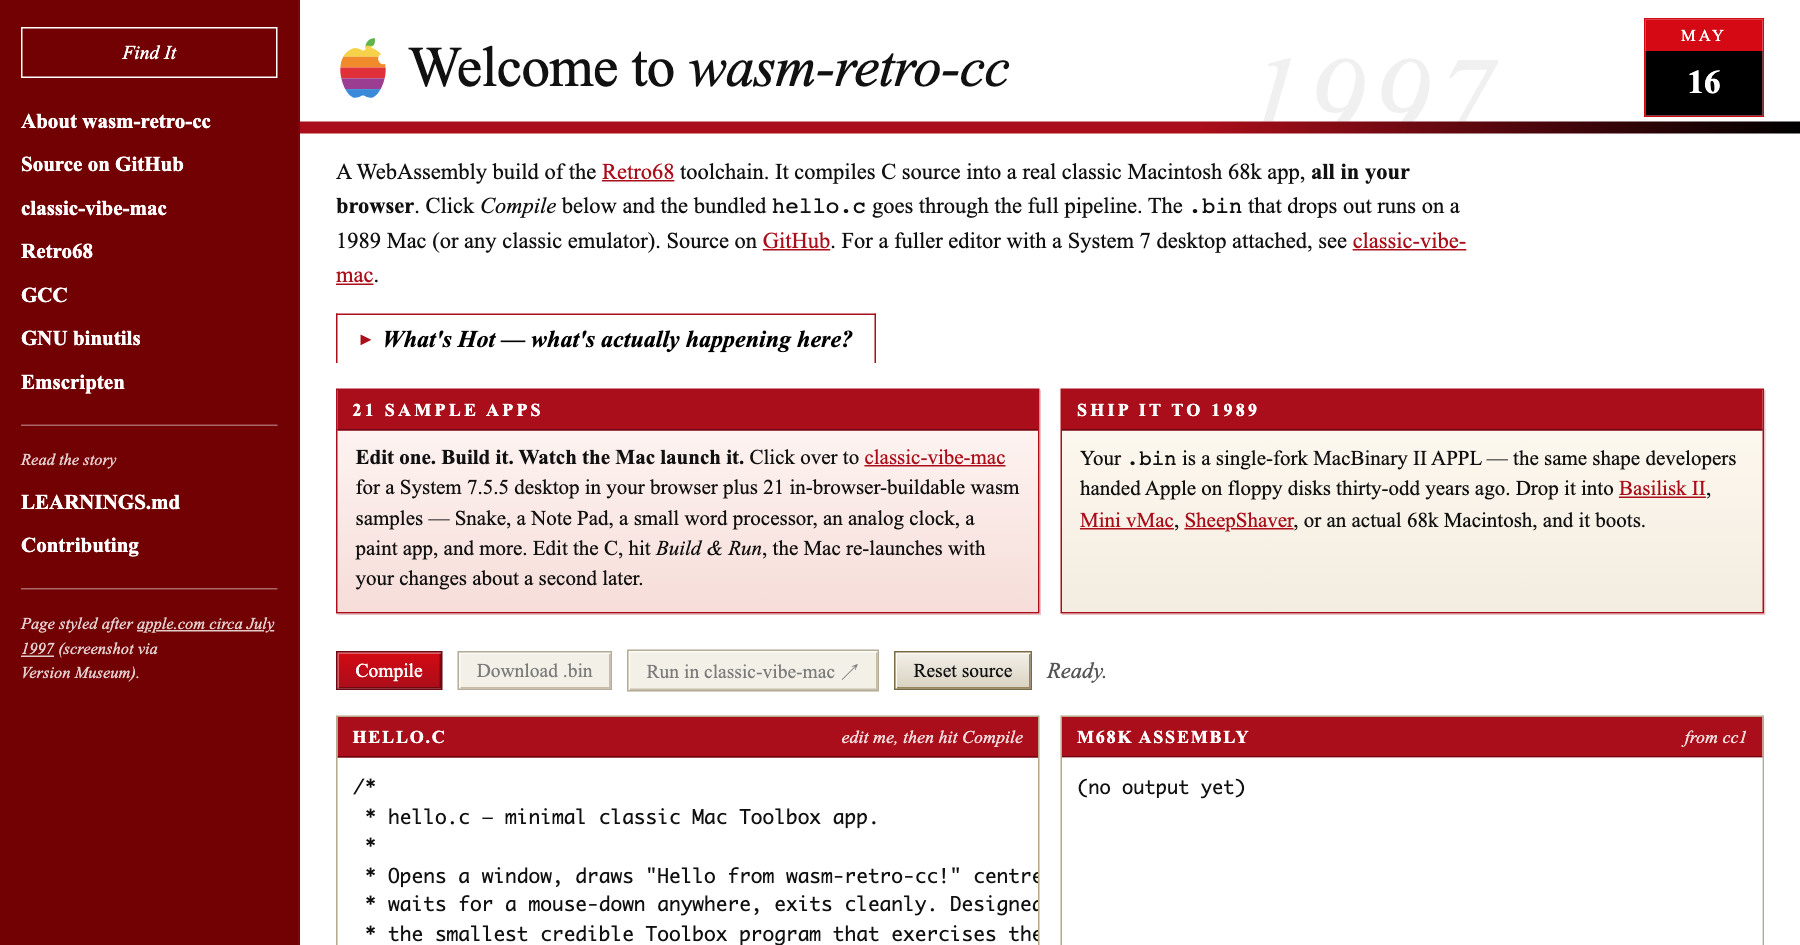
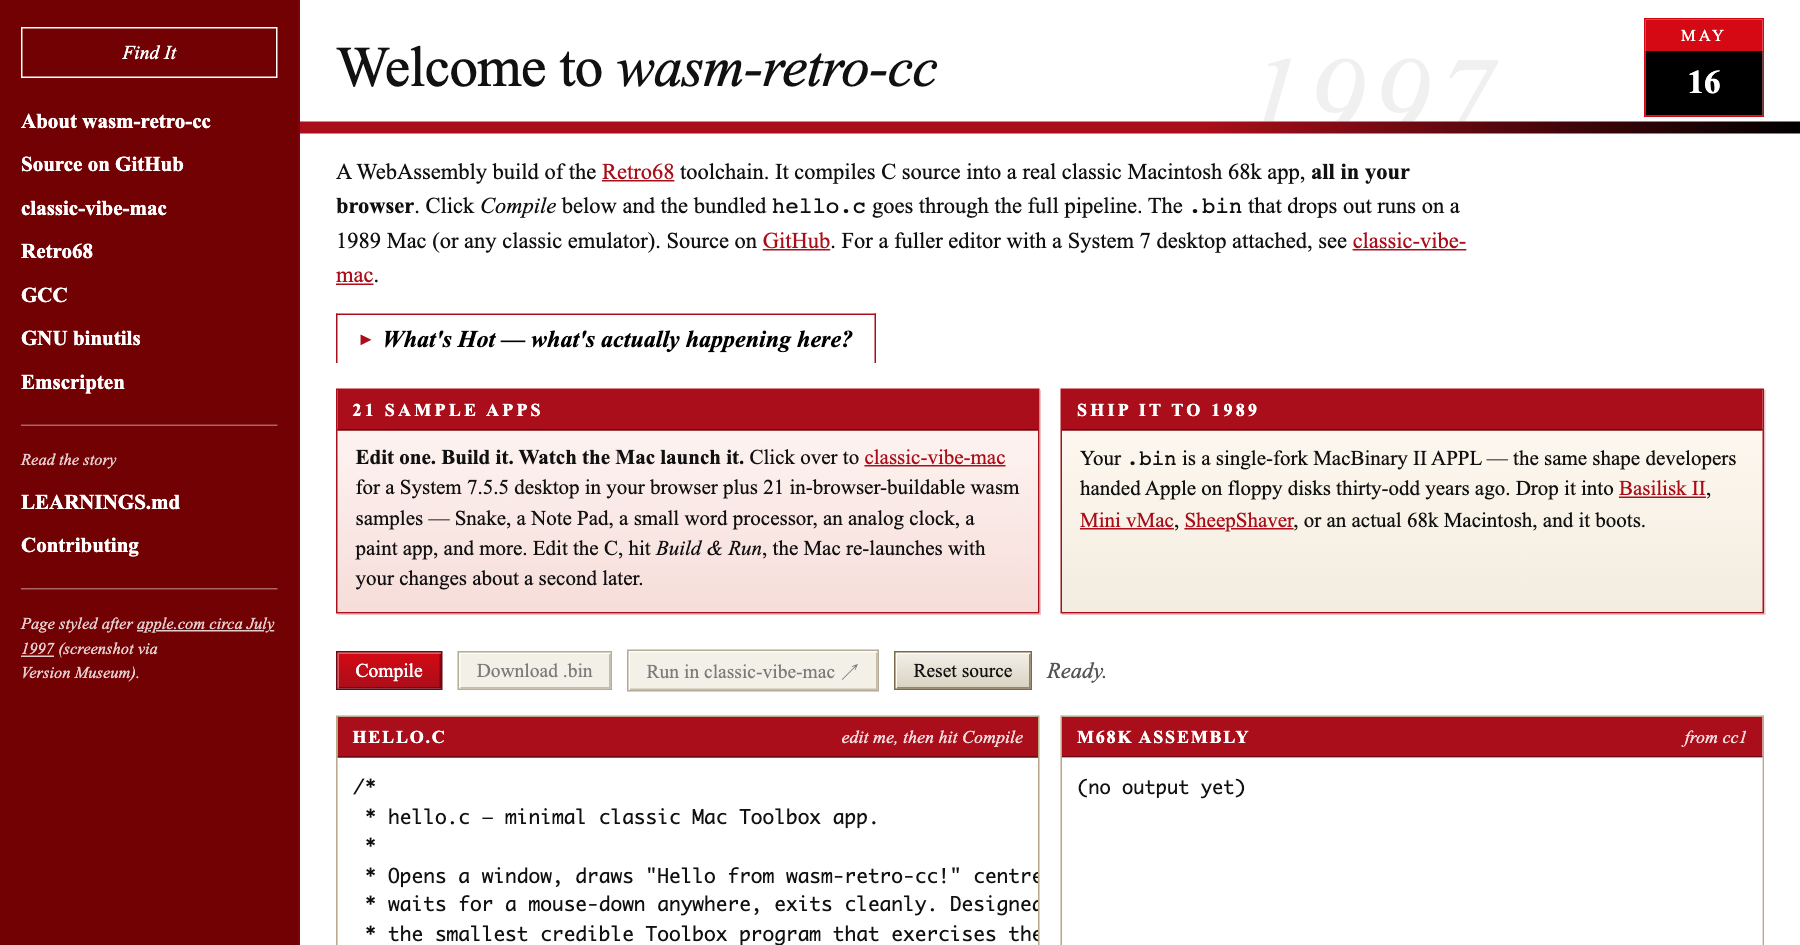
web-demo: drop the hand-drawn Apple silhouette (#42)
It read fine in concept but the actual SVG looked off at the
36 px size in the hero — uneven shoulders, the bite was a
visible cut rather than a clean half-circle, the leaf looked
like a chip out of the body more than an actual leaf. Better
to have a clean serif "Welcome to wasm-retro-cc" with the
faded 1997 and the date stamp than a "tribute" that's clearly
not the real mark.

Drops:
- The SVG block in the hero (the <span class="hero__logo"> +
  the mask + the six stripes).
- The .hero__logo CSS rules.
- The footer paragraph explaining the rainbow mark — no longer
  applicable.

Refreshes og-card.png to match.

The Version Museum credit in the sidebar stays — that's still
the source of the screenshot we matched the rest of the layout
against.

Changed region(s): [[0.1867, 0.0307, 0.56, 0.1228]]

diff --git a/web-demo/index.html b/web-demo/index.html
@@ -129,8 +129,6 @@
       overflow: hidden;
     }
     .hero__row { display: flex; align-items: center; gap: 12px; }
-    .hero__logo { flex: 0 0 auto; }
-    .hero__logo svg { display: block; width: 36px; height: 44px; }
     .hero__title {
       margin: 0;
       font-family: var(--serif);
@@ -450,66 +448,6 @@
     <span class="datestamp__day"   id="cvm-day-stamp">16</span>
   </div>
   <div class="hero__row">
-    <span class="hero__logo" aria-hidden="true">
-      <!-- The rainbow Apple logo (Apple Computer, Inc., 1977-1998) shown
-           here as a tribute to the apple.com look of the era. Six
-           horizontal stripes — green, yellow, orange, red, purple, blue —
-           clipped to the apple silhouette with a bite on the right. -->
-      <svg viewBox="0 0 50 60" xmlns="http://www.w3.org/2000/svg" role="img" aria-label="Apple Computer rainbow logo (1977-1998)">
-        <!--
-          Apple-with-bite silhouette as an SVG mask. Building it as a
-          mask (rather than a clipPath) lets us "punch out" the bite by
-          painting a black circle in the upper-right; the rainbow
-          stripes drawn through the mask then show the negative space
-          inside the bite as transparent.
-
-          The body is a symmetric two-shoulder + round-bottom shape
-          drawn with mirrored cubic Bezier segments — apple-ish, with
-          the small valley at the top between the shoulders where the
-          leaf attaches. The leaf is a separate sub-path tilted
-          right. The bite is a single circle in the mask.
-        -->
-        <defs>
-          <mask id="apple-mask" maskUnits="userSpaceOnUse" x="0" y="0" width="50" height="60">
-            <rect width="50" height="60" fill="black"/>
-            <!-- Body. Y increases downward; the shape spans roughly
-                 (4..46, 12..58) with a small valley at (24, 14). -->
-            <path fill="white" d="
-              M 24 14
-              C 21 12 17 11 14 13
-              C 8  16 4  22 4  32
-              C 4  44 11 58 18 58
-              C 22 58 23 56 25 56
-              C 27 56 28 58 32 58
-              C 39 58 46 44 46 32
-              C 46 22 42 16 36 13
-              C 33 11 29 12 26 14
-              C 25.5 14.6 24.5 14.6 24 14
-              Z"/>
-            <!-- Leaf: small oval-ish curl above the valley, tilted right. -->
-            <path fill="white" d="
-              M 27 12
-              C 27 6 32 2 36 3
-              C 37 9 33 13 28 13
-              Z"/>
-            <!-- The bite: a black circle in the mask punches a notch
-                 out of the upper-right of the body. -->
-            <circle cx="44" cy="22" r="5" fill="black"/>
-          </mask>
-        </defs>
-        <g mask="url(#apple-mask)">
-          <!-- Six horizontal rainbow stripes, top to bottom: green,
-               yellow, orange, red, purple, blue. Same palette the
-               Janoff mark used through 1998. -->
-          <rect x="0" y="0"  width="50" height="10" fill="#5fb44b"/>
-          <rect x="0" y="10" width="50" height="10" fill="#f5d24a"/>
-          <rect x="0" y="20" width="50" height="10" fill="#f08a2a"/>
-          <rect x="0" y="30" width="50" height="10" fill="#e0303a"/>
-          <rect x="0" y="40" width="50" height="10" fill="#9b3e91"/>
-          <rect x="0" y="50" width="50" height="10" fill="#3b8ad9"/>
-        </g>
-      </svg>
-    </span>
     <h1 class="hero__title">
       Welcome to <span class="hero__product">wasm-retro-cc</span>
     </h1>
@@ -735,11 +673,6 @@
     redesign). Original layout preserved by Version&nbsp;Museum at
     <a href="https://www.versionmuseum.com/history-of/apple-website#google_vignette">versionmuseum.com</a> &mdash;
     that's where the screenshot we matched against came from.
-  </p>
-  <p>
-    The Apple logo above is the rainbow mark designed by Rob Janoff in
-    1977, in use through 1998. Shown here as historical tribute, not as
-    a claim of any affiliation.
   </p>
 </footer>
   </div>
